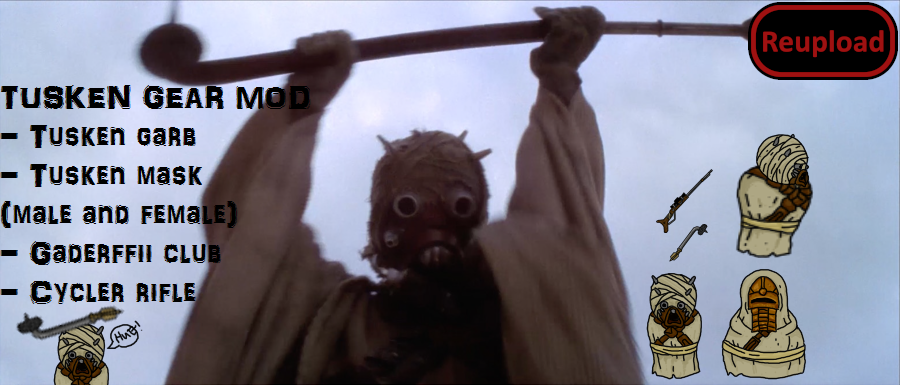
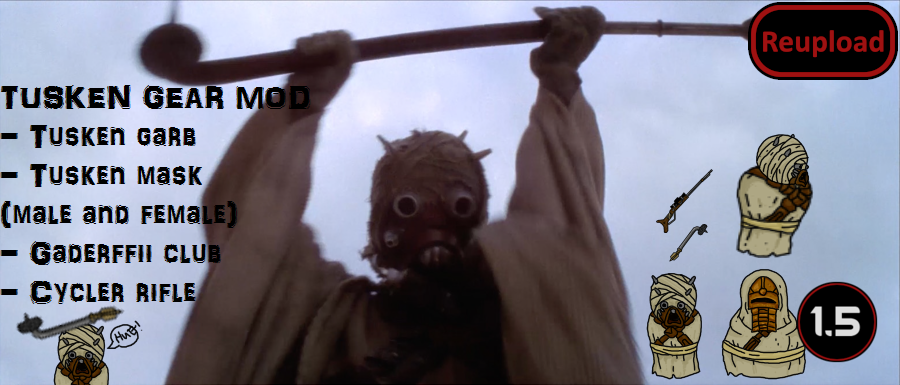
Mod updated for 1.5 and passed autotests

Changed region(s): [[0.8711, 0.7169, 0.9956, 0.9662]]

diff --git a/README.md b/README.md
@@ -27,11 +27,13 @@ Tusken Gear Mod
 
 -  See if the the error persists if you just have this mod and its requirements active.
 -  If not, try adding your other mods until it happens again.
--  Post your error-log using https://steamcommunity.com/workshop/filedetails/?id=818773962]HugsLib and command Ctrl+F12
+-  Post your error-log using https://steamcommunity.com/workshop/filedetails/?id=818773962]HugsLib or the standalone https://steamcommunity.com/sharedfiles/filedetails/?id=2873415404]Uploader and command Ctrl+F12
 -  For best support, please use the Discord-channel for error-reporting.
 -  Do not report errors by making a discussion-thread, I get no notification of that.
 -  If you have the solution for a problem, please post it to the GitHub repository.
+-  Use https://github.com/RimSort/RimSort/releases/latest]RimSort to sort your mods
 
 
 
+https://steamcommunity.com/sharedfiles/filedetails/changelog/2293185932]![Image](https://img.shields.io/github/v/release/emipa606/TuskenGearMod?label=latest%20version&style=plastic&color=9f1111&labelColor=black)
 
